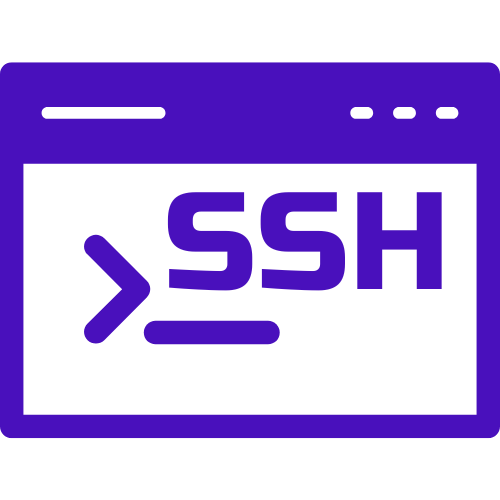
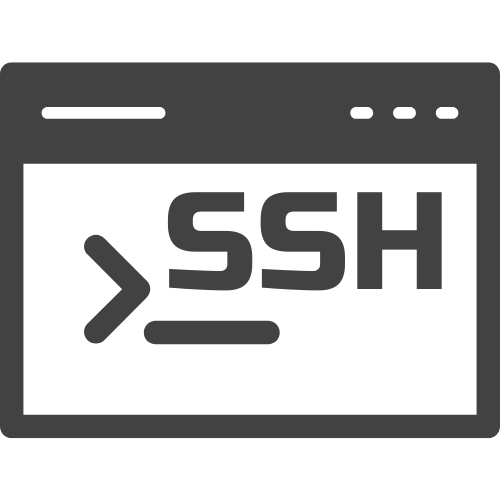
chore: add misc update
mostly cosmetic status improvements

diff --git a/CHANGELOG.md b/CHANGELOG.md
@@ -1,9 +1,17 @@
-![alt text](image.png)# Change Log
+# Change Log
 
 All notable changes to the SSH Remote Extension will be documented in this file.
 
 The format is based on [Keep a Changelog](https://keepachangelog.com/en/1.0.0/),
 and this project adheres to [Semantic Versioning](https://semver.org/spec/v2.0.0.html).
+
+## [1.0.8] - 2025-07-19
+
+### Fixed in 1.0.8
+
+- Update icon
+- Create status badges
+- Update publish workflow to run only when package.json has been modified
 
 ## [1.0.7] - 2025-07-19
 

diff --git a/README.md b/README.md
@@ -1,5 +1,9 @@
 # VSX Remote SSH Extension
 
+[![CI](https://github.com/jajera/vsx-remote-ssh/actions/workflows/ci.yml/badge.svg)](https://github.com/jajera/vsx-remote-ssh/actions/workflows/ci.yml)
+
+[![Release to Open VSX Registry](https://github.com/jajera/vsx-remote-ssh/actions/workflows/publish-open-vsx.yml/badge.svg)](https://github.com/jajera/vsx-remote-ssh/actions/workflows/publish-open-vsx.yml)
+
 Connect to and develop on remote servers via SSH with full VS Code integration.
 
 ## Features
